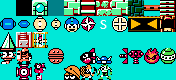
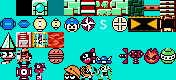
(#194) Added Lava Tile + Water Flow Fix

Changed region(s): [[0.2557, 0.4, 0.3693, 0.6]]

diff --git a/megaman/mmlv_to_vglc.py b/megaman/mmlv_to_vglc.py
@@ -131,16 +131,14 @@ GIMMICK_E_TO_CHAR = {
     31: "M",   # moving platform
     5:  "A",   # appearing/disappearing block (verified against a labelled test level)
     54: "t",   # fake / secret transparent block (verified against a labelled test level)
-    4:  "C",   # electric/hazard emitter ("extends a temporary passable damaging hazard outward")
+    163:"C",   # electric/hazard emitter ("extends a temporary passable damaging hazard outward").
+               # Verified d6/e163 against a game-authored test level (three emitters flanking two
+               # water pools + one atop the middle pillar). The earlier e4 id was a misidentification.
     73: ">",   # conveyor belt (direction resolved in classify(): 'b'=-1 -> left 'E', else right '>')
     124:"I",   # Changkey fire spawner (reuses the tackle-fire sprite; the 'I' fire tile)
     11: "F",   # falling platform: a solid block that drops when stood on. Verified d6/e11
-               # from a labelled test level (a 6-tile stretch of them).
-    43: "x",   # fan: blows Mega Man upward. Verified d6/e43 from the same test level
-               # (three fans placed below the falling platforms).
-    266:"T",   # teleporter (paired warp gimmick). Verified d6/e266 from a test level of
-               # paired teleporters. Style (f=0..3), partner-destination link (m/n) and
-               # usage-limit (h) all vary per teleporter but collapse to the single T tile.
+    43: "x",   # fan: blows Mega Man upward.
+    266:"T",   # teleporter (paired warp gimmick). 
 }
 
 # d == 7 (pickups): the 'e' subtype id -> VGLC char.  Pickup ids are a small
@@ -184,6 +182,12 @@ WATER_E_IDS = (
     | {1210, 1211, 1687}
 )
 
+# Lava: like water, lava is a liquid cell carrying only an 'e' id, but it is a damaging
+# hazard, so it maps to its own tile '!' (a solid/hazard, like spikes) rather than the
+# passable water '~'. Only e=1095 is verified (from a labelled test level); lava likely
+# has more surface/body variants, so extend this set as they are identified.
+LAVA_E_IDS = {1095}
+
 
 def classify(cell: dict) -> str:
     """Map a cell's object-layer fields to a VGLC character (or None for air)."""
@@ -222,11 +226,15 @@ def classify(cell: dict) -> str:
     if i is not None:
         return TILE_I_TO_CHAR.get(int(i))           # None for an unknown tile id
 
-    # Water: liquid cells carry only an 'e' id (no i/d). Every liquid family/variant id
-    # in WATER_E_IDS collapses to the single water tile '~'.
+    # Liquids: a liquid cell carries only an 'e' id (no i/d). Water collapses to the
+    # passable '~'; lava is a damaging hazard, so it collapses to the spike tile 'H'.
     e = cell.get("e")
-    if e is not None and int(e) in WATER_E_IDS:
-        return "~"
+    if e is not None:
+        ei = int(e)
+        if ei in LAVA_E_IDS:
+            return "!"
+        if ei in WATER_E_IDS:
+            return "~"
 
     # Cell exists but carries no recognised tile/object field.
     return None
@@ -326,7 +334,36 @@ def mmlv_to_grid(path: Path):
         col = tx - min_x
         grid[row][col] = ch
 
+    flood_water_down(grid)
+
     return grid
+
+
+def flood_water_down(grid) -> None:
+    """Flood water downward: any air cell directly beneath water becomes water.
+
+    Mega Man Maker only stores the tiles the author painted, so a deep pool often
+    keeps just its surface row(s) of water with empty (air) cells underneath. In the
+    VGLC grid that reads as water floating over a hole. Here we let each column's water
+    fall: scanning top-to-bottom, once a '~' is seen every contiguous air cell below it
+    ('-' walkable sky or '@' outside-screen) is turned to '~', until a solid/other tile
+    stops the flow. A tile that is itself water keeps the flood going.
+    """
+    if not grid:
+        return
+    AIR = ("-", "@")
+    height = len(grid)
+    width = len(grid[0])
+    for col in range(width):
+        flooding = False
+        for row in range(height):
+            ch = grid[row][col]
+            if ch == "~":
+                flooding = True
+            elif flooding and ch in AIR:
+                grid[row][col] = "~"
+            else:
+                flooding = False
 
 def mmlv_to_vglc(path: Path) -> list[str]:
     """Convert one .mmlv to a list of VGLC ASCII row strings.

diff --git a/level_dataset.py b/level_dataset.py
@@ -357,25 +357,26 @@ def mm_tiles(game):
             (2,0),    #22 'H' = Spikes
             (2,1),    #23 'C' = Fire pillar / hazard emitter
             (2,2),    #24 'x' = Fan (blows upward)
+            (2,3),    #25 '!' = Lava (instant death, like the spike)
 
-            (3,0),    #25 'p' = Foot holder enemy/platform
-            (3,1),    #26 'r' = Sniper Joe enemy
-            (3,3),    #27 'o' = Mambu (flying shell) spawner
-            (3,3),    #28 'n' = Mambu (flying shell)          -- shares (3,3) with the spawner
-            (3,5),    #29 'k' = Killer bullet spawner
-            (3,5),    #30 'j' = Killer bullet                 -- shares (3,5) with the spawner
-            (3,6),    #31 'g' = Spine enemy
-            (3,7),    #32 'c' = Beak enemy
-            (3,8),    #33 'e' = Screw bomber enemy
-            (3,9),    #34 'I' = Tackle fire enemy
-            (3,10),   #35 'i' = Watcher enemy
+            (3,0),    #26 'p' = Foot holder enemy/platform
+            (3,1),    #27 'r' = Sniper Joe enemy
+            (3,3),    #28 'o' = Mambu (flying shell) spawner
+            (3,3),    #29 'n' = Mambu (flying shell)          -- shares (3,3) with the spawner
+            (3,5),    #30 'k' = Killer bullet spawner
+            (3,5),    #31 'j' = Killer bullet                 -- shares (3,5) with the spawner
+            (3,6),    #32 'g' = Spine enemy
+            (3,7),    #33 'c' = Beak enemy
+            (3,8),    #34 'e' = Screw bomber enemy
+            (3,9),    #35 'I' = Tackle fire enemy
+            (3,10),   #36 'i' = Watcher enemy
 
-            (4,1),    #36 '^' = Octopus battery (vertical)
-            (4,1),    #37 '<' = Octopus battery (horizontal)  -- shares (4,1) with the vertical one
-            (4,2),    #38 'f' = Big eye enemy
-            (4,4),    #39 'a' = Met enemy
-            (4,5),    #40 'd' = Picket man enemy
-            (4,6),    #41 'h' = Crazy razy enemy
+            (4,1),    #37 '^' = Octopus battery (vertical)
+            (4,1),    #38 '<' = Octopus battery (horizontal)  -- shares (4,1) with the vertical one
+            (4,2),    #39 'f' = Big eye enemy
+            (4,4),    #40 'a' = Met enemy
+            (4,5),    #41 'd' = Picket man enemy
+            (4,6),    #42 'h' = Crazy razy enemy
 
     ]
 

diff --git a/megaman/vglc_to_mmlv.py b/megaman/vglc_to_mmlv.py
@@ -87,6 +87,15 @@ def water_tile(x: int, y: int) -> List[str]:
         f'a{x},{y}="1.000000"',
     ]
 
+def lava_tile(x: int, y: int) -> List[str]:
+    # Lava, liquid id 1095 (verified against a labelled level). Like water it is a
+    # liquid-only object (no 'd'), but it is a deadly hazard tile ('!').
+    return [
+        f'o{x},{y}="9999.000000"',
+        f'e{x},{y}="1095.000000"',
+        f'a{x},{y}="1.000000"',
+    ]
+
 def disappearing_block(x: int, y: int) -> List[str]:
     # Appearing/disappearing ("Yoku") block, gimmick id 5.
     return [
@@ -107,10 +116,11 @@ def fake_block(x: int, y: int) -> List[str]:
     ]
 
 def hazard_emitter(x: int, y: int) -> List[str]:
-    # Electric/hazard emitter (the passable 'C' hazard), gimmick id 4.
+    # Electric/hazard emitter (the passable 'C' hazard), gimmick id 163.
+    # Verified d6/e163 against a game-authored test level; the earlier e4 id was wrong.
     return [
         f'o{x},{y}="9999.000000"',
-        f'e{x},{y}="4.000000"',
+        f'e{x},{y}="163.000000"',
         f'd{x},{y}="6.000000"',
         f'a{x},{y}="1.000000"',
     ]
@@ -365,6 +375,7 @@ CHAR_MAP = {
     'x': fan,
     'T': teleporter,
     '~': water_tile,
+    '!': lava_tile,
     'Z': orb_tile,
     'P': player_tile,
     'C': hazard_emitter,
